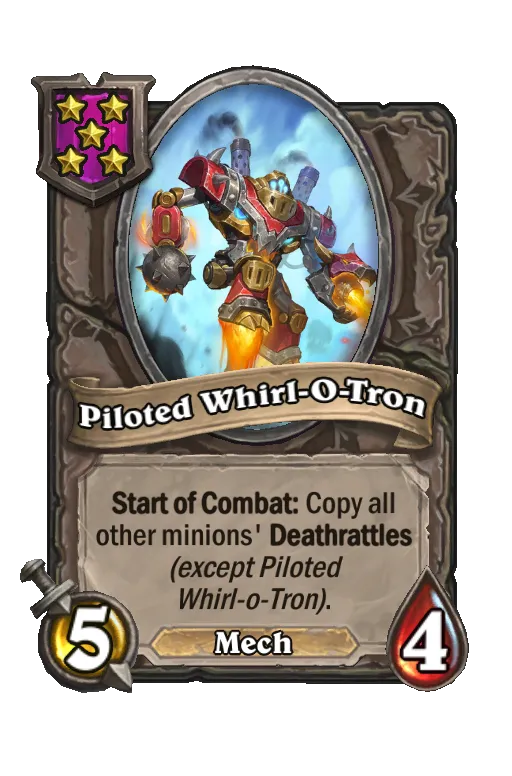
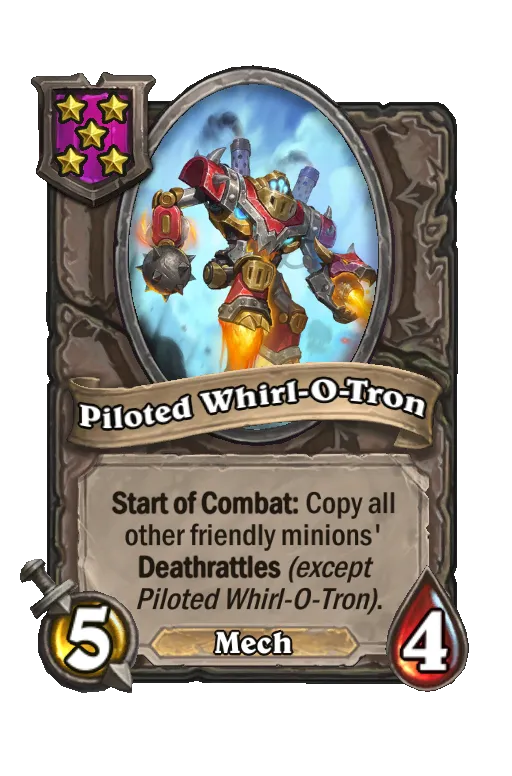
Updated images and content after patch 27.6.2

Changed region(s): [[0.1875, 0.6495, 0.8125, 0.8041]]

diff --git a/bgstrategy/index.php b/bgstrategy/index.php
@@ -257,7 +257,7 @@ if (!empty($buddy)) {
         echo '<h2 class="page_title">Anomalies</h2>';
         echo '<p>One anomaly is randomly choosen from the pool of active anomalies before the hero selection and will apply to all players for the remainder of the whole game. The anomaly called <a class=\'hoverimage\' href="/bgstrategy/anomaly/?id=8">Secrets of Norgannon</a> is five times as likely to be selected as any other anomalies. Which means with currently ' . $numberOfAnomalies . ' different anomalies active any anomaly would have a chance of ' . number_format(100 / $numberOfAnomalies, 2) . '% to be active, but due to this special rule \'Secrets\' has a 5/' . $numberOfAnomalies + 4 . ' or ' . number_format(5 / ($numberOfAnomalies + 4) * 100, 2) . '% chance and any other anomaly a 1/' . $numberOfAnomalies + 4 . ' or ' . number_format(1 / ($numberOfAnomalies + 4) * 100, 2) . '% chance to show up. Three new anomalies will be added to the pool every week and feature an increased appearance rate until the next release.
         <br><br>Depending on the anomaly, some heroes, minion types or even single minions can be banned. There is also a system in place to increase the chances of more complex anomalies for high MMR lobbies (~6000 or more).
-        <br><br>On 17.10. the seven anomalies <a class=\'hoverimage\' href="/bgstrategy/anomaly/?id=42">Anomalous Wisdomball</a>, <a class=\'hoverimage\' href="/bgstrategy/anomaly/?id=43">Anomalous Twin</a>, <a class=\'hoverimage\' href="/bgstrategy/anomaly/?id=44">Anomalous Bribe</a>, <a class=\'hoverimage\' href="/bgstrategy/anomaly/?id=45">The Keys to Victory</a>, <a class=\'hoverimage\' href="/bgstrategy/anomaly/?id=46">Bring Home the Bacon</a>, <a class=\'hoverimage\' href="/bgstrategy/anomaly/?id=47">Temperance of Aman\'Thul</a> and <a class=\'hoverimage\' href="/bgstrategy/anomaly/?id=48">Audience\'s Choice</a> were added and will have a "increased" appearance rate until new anomalies will be added.</p>';
+        <br><br>On 24.10. the three anomalies <a class=\'hoverimage\' href="/bgstrategy/anomaly/?id=49">What Are the Odds?</a>, <a class=\'hoverimage\' href="/bgstrategy/anomaly/?id=50">How to Even??</a> and <a class=\'hoverimage\' href="/bgstrategy/anomaly/?id=51">Deep Blue Sooner</a> were added and will have a "increased" appearance rate until new anomalies will be added.</p>';
     }
 
     if ($show == 'anomalies' && $mode == 'gfx') {

diff --git a/bgstrategy/general.php b/bgstrategy/general.php
@@ -226,7 +226,7 @@ foreach ($tempMinions->data as $key => $object) {
         drawBoard($minions);
         unset($board);
         echo "<br>";
-        $board   = ['CC', 'Nomi', 'Trumpeter', 'Rock Rock'];
+        $board   = ['CC', 'Nomi', 'Rock Rock'];
         $minions = getMinionsForBoard($board);
         drawBoard($minions);
         unset($board);
